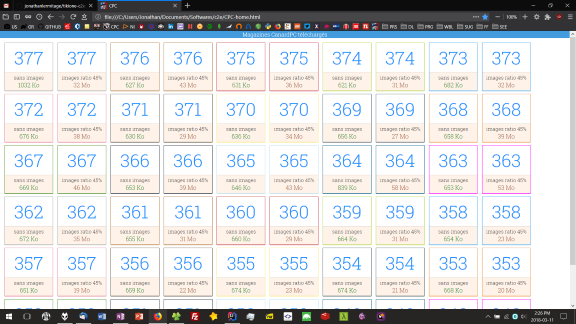
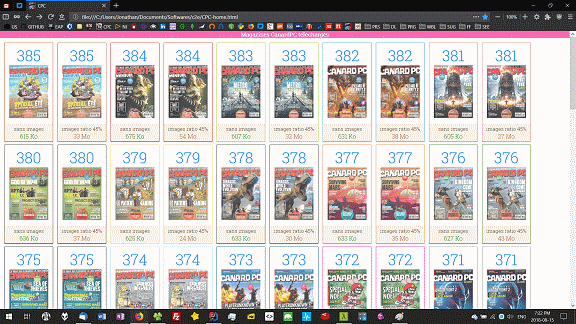
(feat) add magazines edito picture to home page

diff --git a/src/main/kotlin/fr/tikione/c2e/core/service/html/HtmlWriterServiceImpl.kt b/src/main/kotlin/fr/tikione/c2e/core/service/html/HtmlWriterServiceImpl.kt
@@ -466,7 +466,11 @@ class HtmlWriterServiceImpl : AbstractWriter(), HtmlWriterService {
             if (isHs) {
                 hsList += """
                 <div class="magBox mag$hsColorIdx">
-                    <div class="magBox-number"><a href="${mag.file.name}">${mag.number}</a></div>
+                    <div class="magBox-number">
+                        <a href="${mag.file.name}">${mag.number}<br/>
+                            <img class="edito-cover" src="${mag.coverAsBase64}"/>
+                        </a>
+                    </div>
                     <div class="magBox-details">
                         <div class="magBox-options">${mag.options}</div>
                         <div class="magBox-size$sizeUnit">${mag.humanSize}</div>
@@ -476,7 +480,11 @@ class HtmlWriterServiceImpl : AbstractWriter(), HtmlWriterService {
             } else {
                 magazineList += """
                 <div class="magBox mag$magsColorIdx">
-                    <div class="magBox-number"><a href="${mag.file.name}">${mag.number}</a></div>
+                    <div class="magBox-number">
+                        <a href="${mag.file.name}">${mag.number}<br/>
+                            <img class="edito-cover" src="${mag.coverAsBase64}"/>
+                        </a>
+                    </div>
                     <div class="magBox-details">
                         <div class="magBox-options">${mag.options}</div>
                         <div class="magBox-size$sizeUnit">${mag.humanSize}</div>

diff --git a/src/main/resources/tmpl/home/home.html b/src/main/resources/tmpl/home/home.html
@@ -49,7 +49,7 @@
         }
 
         .magBox-number {
-            font-size: 3em;
+            font-size: 2.5em;
             font-weight: lighter;
             color: #444;
             text-align: center;
@@ -68,7 +68,7 @@
 
         .magBox-details {
             margin: 0;
-            padding: 0.25em;
+            padding: 0.15em;
             background-color: #fff3e9;
             border-top: 1px solid #d8ccc2;
         }
@@ -87,6 +87,18 @@
         .magBox-sizeMo {
             color: sienna;
             text-align: center;
+        }
+
+        img.edito-cover {
+            margin: 0;
+            padding: 0;
+            width: 104px;
+            height: 140px;
+            opacity: 0.75;
+        }
+
+        img.edito-cover:hover {
+            opacity: 1;
         }
 
         .mag1 {

diff --git a/src/main/kotlin/fr/tikione/c2e/core/service/home/LocalReaderServiceImpl.kt b/src/main/kotlin/fr/tikione/c2e/core/service/home/LocalReaderServiceImpl.kt
@@ -35,6 +35,13 @@ class LocalReaderServiceImpl : LocalReaderService {
                         mag.file = file
                         mag.options = "images ratio 100%"
                     }
+                    val coverImgTag = "<img class='edito-cover-img' src='"
+                    val coverLine = file.readLines().firstOrNull { s -> s.contains(coverImgTag) }
+                    if (coverLine == null) {
+                        mag.coverAsBase64 = ""
+                    } else {
+                        mag.coverAsBase64 = coverLine.substring(coverLine.indexOf(coverImgTag) + coverImgTag.length, coverLine.indexOf("'>"))
+                    }
                     log.info("magazine trouve : $mag")
                     mag
                 }

diff --git a/src/main/kotlin/fr/tikione/c2e/core/model/home/MagazineSummary.kt b/src/main/kotlin/fr/tikione/c2e/core/model/home/MagazineSummary.kt
@@ -8,6 +8,7 @@ class MagazineSummary {
     lateinit var options: String
     lateinit var file: File
     lateinit var humanSize: String
+    lateinit var coverAsBase64: String
 
     override fun toString(): String {
         return "MagazineSummary(number='$number', options='$options', file=$file, humanSize='$humanSize')"
